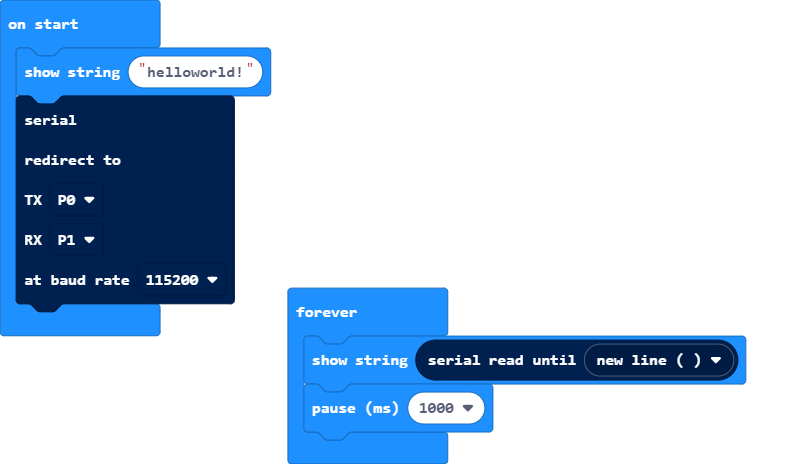
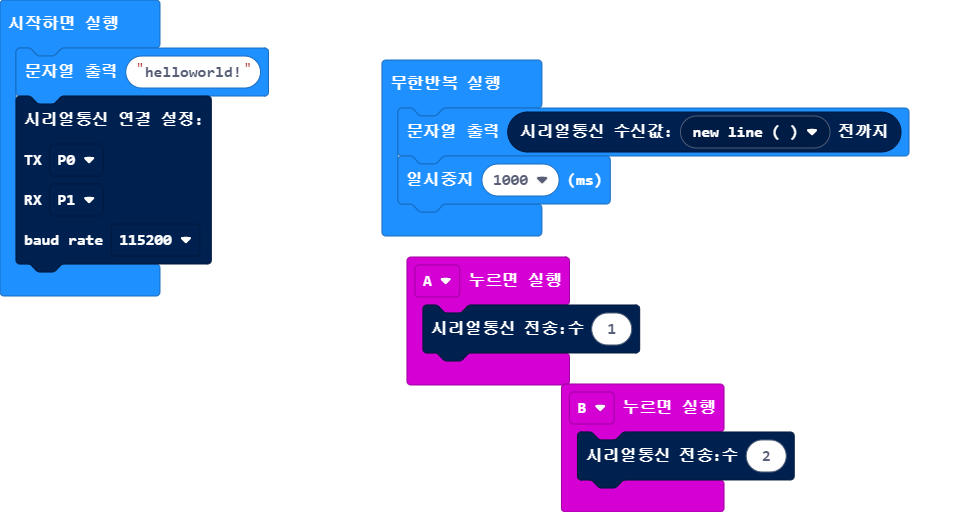
main.blocks, main.ts 업데이트하기

diff --git a/main.ts b/main.ts
@@ -1,3 +1,9 @@
+input.onButtonPressed(Button.A, function () {
+    serial.writeNumber(1)
+})
+input.onButtonPressed(Button.B, function () {
+    serial.writeNumber(2)
+})
 basic.showString("helloworld!")
 serial.redirect(
 SerialPin.P0,
